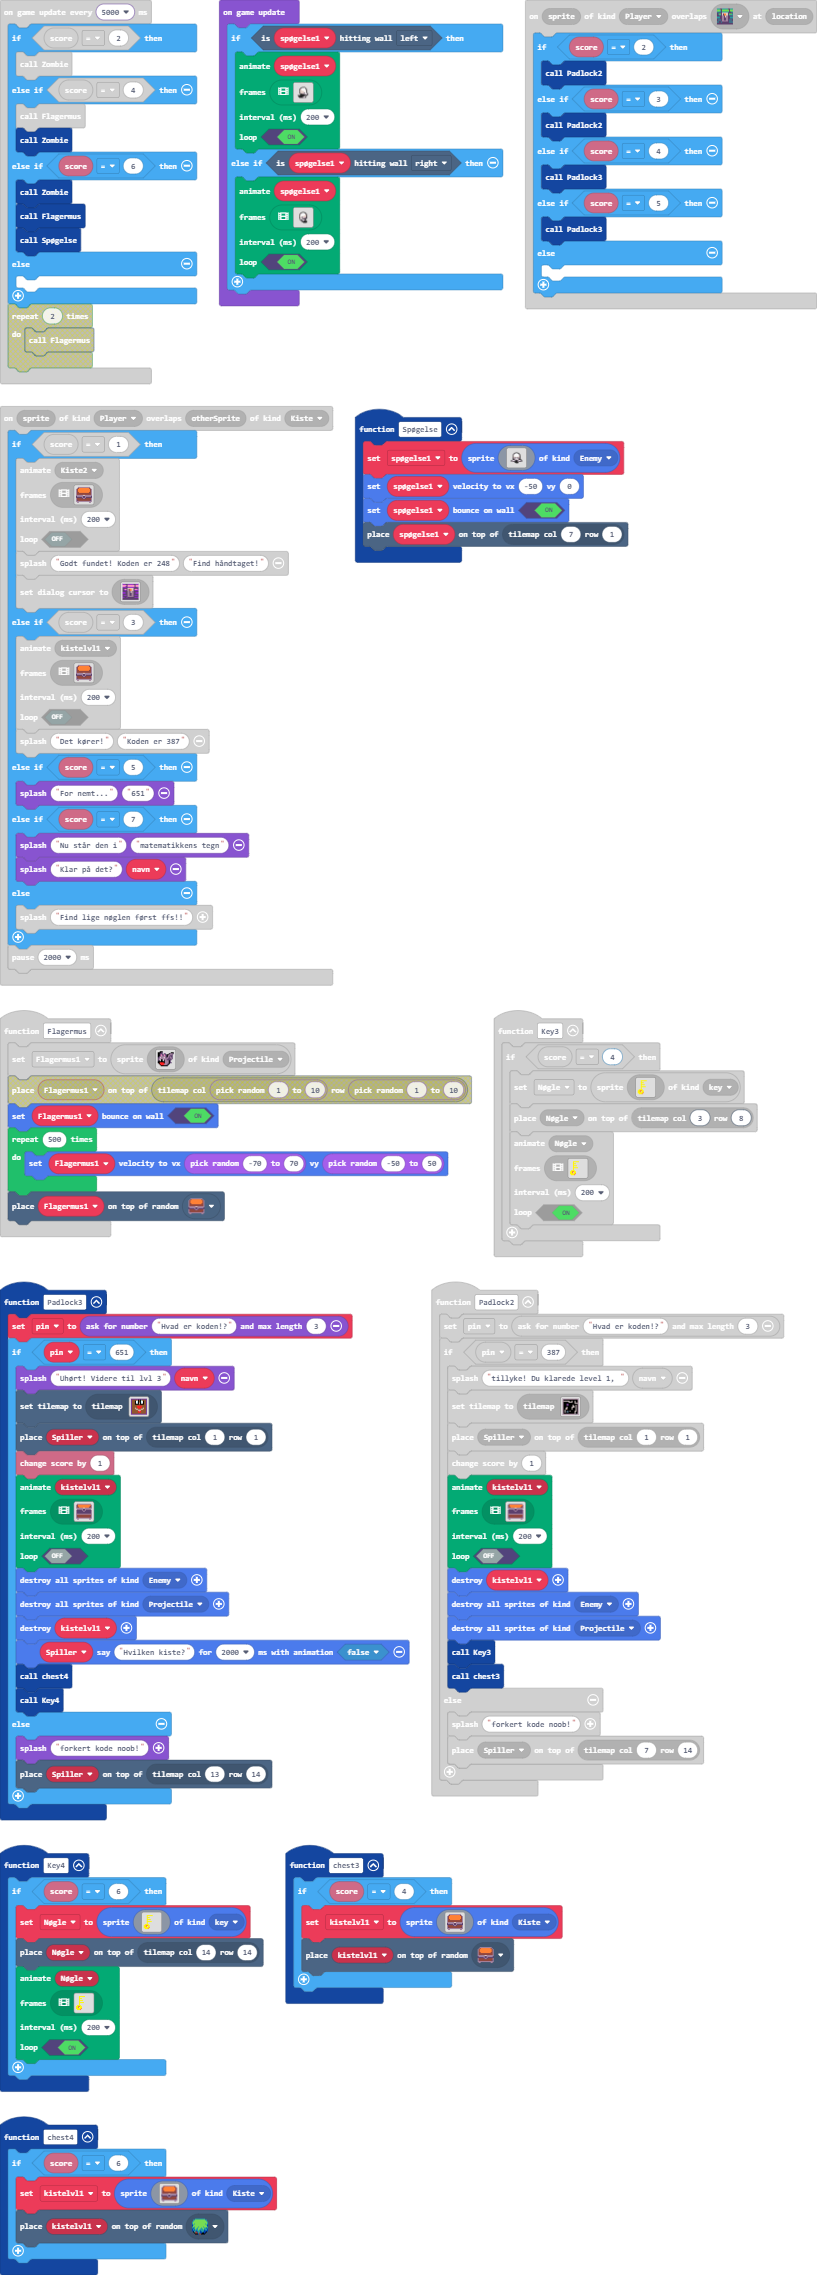
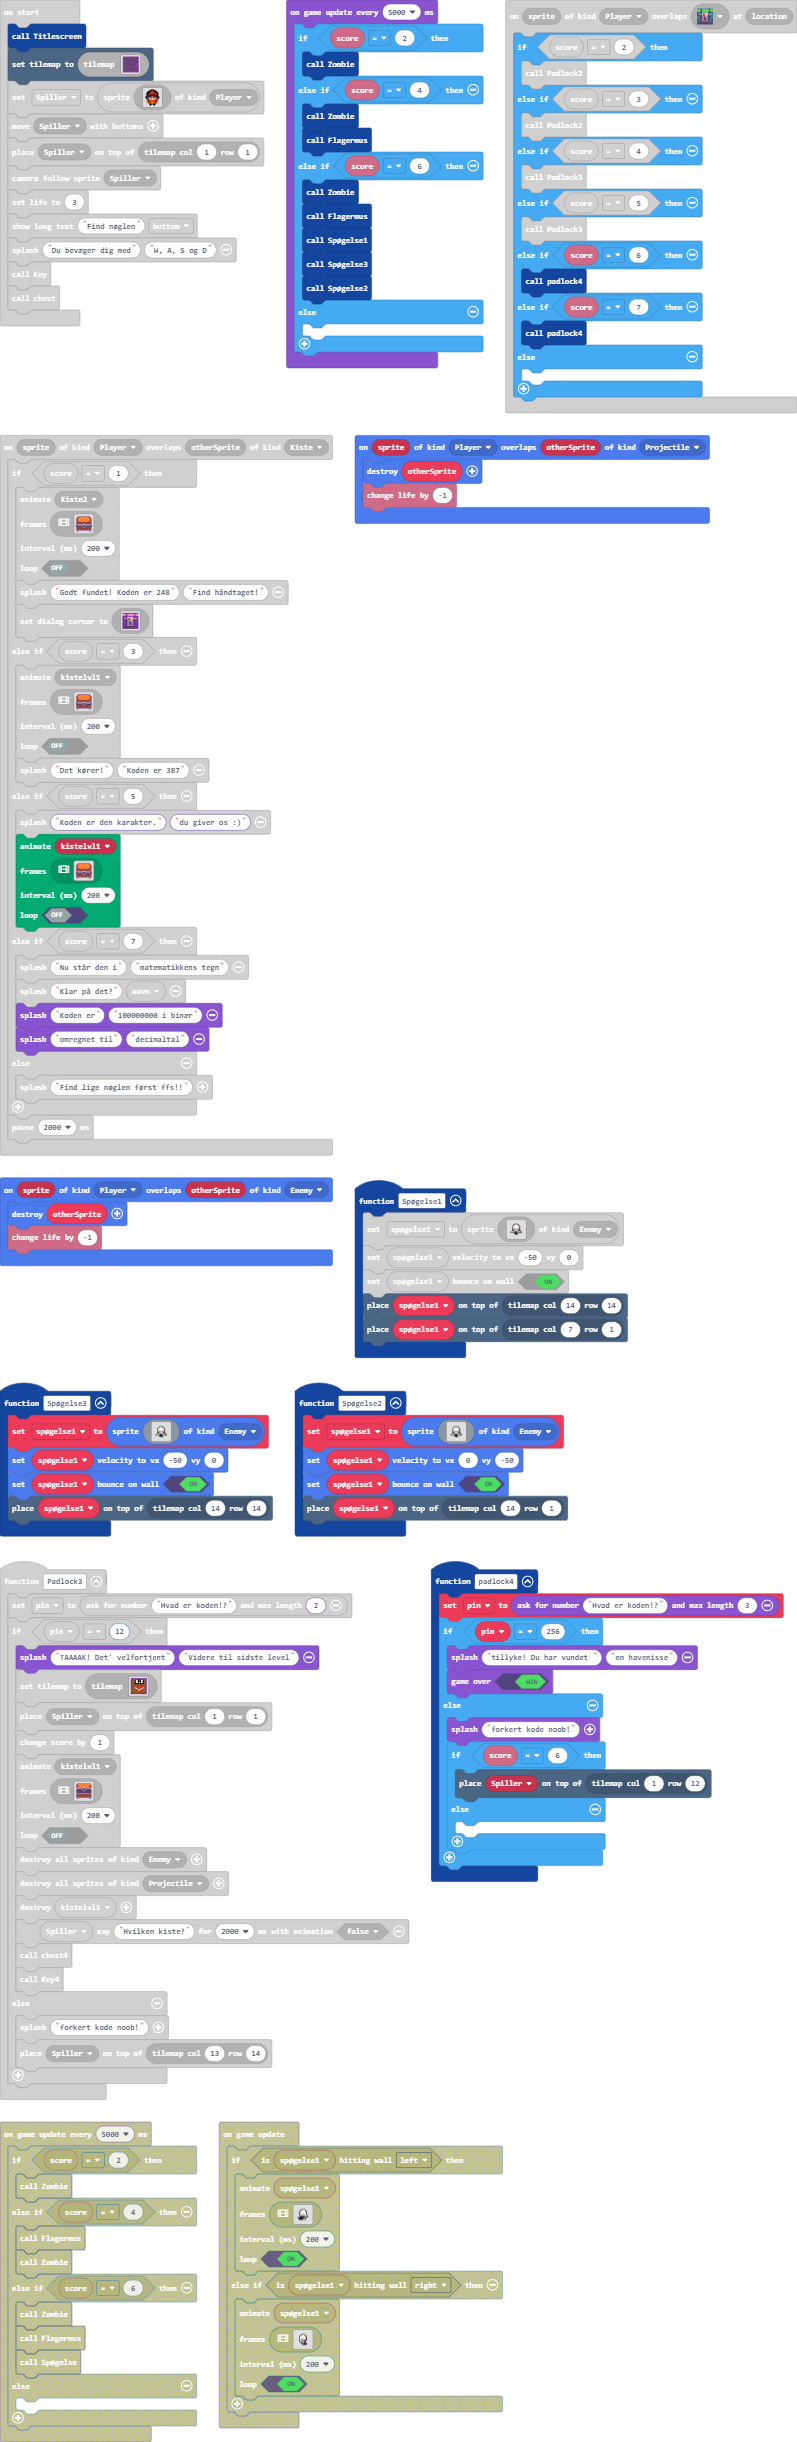
Update main.blocks, main.ts, tilemap.g.jres, tilemap.g.ts

diff --git a/tilemap.g.ts b/tilemap.g.ts
@@ -242,25 +242,6 @@ namespace myTiles {
 . . . . . . . . . . . . . . . . 
 . . . . . . . . . . . . . . . . 
 `, [myTiles.transparency16], TileScale.Sixteen);
-            case "level 1":
[1 lines of base64/hex data omitted]
-2 2 2 2 2 2 2 2 2 2 2 2 2 2 2 2 
-2 . . . . . . . . . . 2 . . . 2 
-2 . 2 2 2 2 2 2 2 2 2 2 . . . 2 
-2 . . . . . . . 2 . . . . . . 2 
-2 . . . . 2 2 2 2 2 2 2 2 2 . 2 
-2 . 2 . . . . . . . . . . 2 . 2 
-2 . 2 . . 2 . . . . . . . 2 . 2 
-2 . 2 2 2 . . . . 2 2 . . 2 . 2 
-2 . . 2 . . . . 2 . . . . . . 2 
-2 . . 2 . . . 2 . . . . 2 2 2 2 
-2 . . 2 2 2 . 2 . . . . . . . 2 
-2 . . 2 . 2 . 2 2 2 2 2 2 . . 2 
-2 . . 2 . 2 . . . . . . 2 . . 2 
-2 . . . . 2 . . . . . . 2 . . 2 
-2 . . . . . . . . . . . 2 . . 2 
-2 2 2 2 2 2 2 . 2 2 2 2 2 2 2 2 
-`, [myTiles.transparency16,sprites.dungeon.floorDark3,sprites.dungeon.floorDark5,sprites.dungeon.greenOuterNorthWest,sprites.dungeon.greenOuterNorth0,sprites.dungeon.greenOuterNorthEast,sprites.dungeon.greenOuterWest1,sprites.dungeon.greenOuterEast2,sprites.dungeon.greenOuterNorth2,sprites.dungeon.greenOuterWest2,sprites.dungeon.greenOuterSouthEast,sprites.dungeon.greenOuterSouth0,sprites.dungeon.greenOuterSouthWest,sprites.dungeon.greenOuterEast1,sprites.dungeon.floorDarkDiamond,sprites.dungeon.floorDark0,sprites.dungeon.chestClosed,sprites.dungeon.greenSwitchUp], TileScale.Sixteen);
             case "level15":
             case "level15":return tiles.createTilemap(hex`1000100000000000000000000000000000000000000000000000000000000000000000000000000000000000000000000000000000000000000000000000000000000000000000000000000000000000000000000000000000000000000000000000000000000000000000000000000000000000000000000000000000000000000000000000000000000000000000000000000000000000000000000000000000000000000000000000000000000000000000000000000000000000000000000000000000000000000000000000000000000000000000000000000000000000000000000000000000000000000000000000000000000000000000000000000000000000`, img`
 . . . . . . . . . . . . . . . . 
@@ -337,8 +318,46 @@ namespace myTiles {
 . . . . . . . . . . . . . . . . 
 . . . . . . . . . . . . . . . . 
 `, [myTiles.transparency16], TileScale.Sixteen);
+            case "level 1":
[1 lines of base64/hex data omitted]
+2 2 2 2 2 2 2 2 2 2 2 2 2 2 2 2 
+2 . . . . . . . . . . 2 . . . 2 
+2 . 2 2 2 2 2 2 2 2 2 2 . . . 2 
+2 . . . . . . . 2 . . . . . . 2 
+2 . . . . 2 2 2 2 2 2 2 2 2 . 2 
+2 . 2 . . . . . . . . . . 2 . 2 
+2 . 2 . . 2 . . . . . . . 2 . 2 
+2 . 2 2 2 . . . . 2 2 . . 2 . 2 
+2 . . 2 . . . . 2 . . . . . . 2 
+2 . . 2 . . . 2 . . . . 2 2 2 2 
+2 . . 2 2 2 . 2 . . . . . . . 2 
+2 . . 2 . 2 . 2 2 2 2 2 2 . . 2 
+2 . . 2 . 2 . . . . . . 2 . . 2 
+2 . . . . 2 . . . . . . 2 . . 2 
+2 . . . . . . . . . . . 2 . . 2 
+2 2 2 2 2 2 2 . 2 2 2 2 2 2 2 2 
+`, [myTiles.transparency16,sprites.dungeon.floorDark3,sprites.dungeon.floorDark5,sprites.dungeon.greenOuterNorthWest,sprites.dungeon.greenOuterNorth0,sprites.dungeon.greenOuterNorthEast,sprites.dungeon.greenOuterWest1,sprites.dungeon.greenOuterEast2,sprites.dungeon.greenOuterNorth2,sprites.dungeon.greenOuterWest2,sprites.dungeon.greenOuterSouthEast,sprites.dungeon.greenOuterSouth0,sprites.dungeon.greenOuterSouthWest,sprites.dungeon.greenOuterEast1,sprites.dungeon.floorDarkDiamond,sprites.dungeon.floorDark0,sprites.dungeon.chestClosed,sprites.dungeon.greenSwitchUp], TileScale.Sixteen);
+            case "level18":
+            case "level18":return tiles.createTilemap(hex`1000100000000000000000000000000000000000000000000000000000000000000000000000000000000000000000000000000000000000000000000000000000000000000000000000000000000000000000000000000000000000000000000000000000000000000000000000000000000000000000000000000000000000000000000000000000000000000000000000000000000000000000000000000000000000000000000000000000000000000000000000000000000000000000000000000000000000000000000000000000000000000000000000000000000000000000000000000000000000000000000000000000000000000000000000000000000000`, img`
+. . . . . . . . . . . . . . . . 
+. . . . . . . . . . . . . . . . 
+. . . . . . . . . . . . . . . . 
+. . . . . . . . . . . . . . . . 
+. . . . . . . . . . . . . . . . 
+. . . . . . . . . . . . . . . . 
+. . . . . . . . . . . . . . . . 
+. . . . . . . . . . . . . . . . 
+. . . . . . . . . . . . . . . . 
+. . . . . . . . . . . . . . . . 
+. . . . . . . . . . . . . . . . 
+. . . . . . . . . . . . . . . . 
+. . . . . . . . . . . . . . . . 
+. . . . . . . . . . . . . . . . 
+. . . . . . . . . . . . . . . . 
+. . . . . . . . . . . . . . . . 
+`, [myTiles.transparency16], TileScale.Sixteen);
             case "level3":
[2 lines of base64/hex data omitted]
 2 2 2 2 2 2 2 2 2 2 2 2 2 2 2 2 
 2 . . . . . . 2 . 2 . . . . . 2 
 2 . . . 2 . . 2 . 2 . . 2 . . 2 
@@ -351,11 +370,11 @@ namespace myTiles {
 2 . . . 2 . . 2 2 2 . . 2 . . 2 
 2 . . . . 2 2 . . . 2 2 . . . 2 
 2 . . . . . . 2 2 2 . . . . . 2 
-2 . . . . . . . . . . . . . . 2 
+. . . . . . . . . . . . . . . 2 
 2 . . . . . . . . . . . . . . 2 
 2 . . . . . . . . . . . . . . 2 
 2 2 2 2 2 2 2 2 2 2 2 2 2 2 2 2 
-`, [myTiles.transparency16,myTiles.tile1,myTiles.tile2,myTiles.tile3,myTiles.tile4,myTiles.tile7,myTiles.tile8,myTiles.tile9,myTiles.tile10,myTiles.tile11,myTiles.tile12,myTiles.tile13,sprites.dungeon.chestClosed,sprites.builtin.forestTiles0], TileScale.Sixteen);
+`, [myTiles.transparency16,myTiles.tile1,myTiles.tile2,myTiles.tile3,myTiles.tile4,myTiles.tile7,myTiles.tile8,myTiles.tile9,myTiles.tile10,myTiles.tile11,myTiles.tile12,myTiles.tile13,sprites.dungeon.chestClosed,sprites.builtin.forestTiles0,sprites.dungeon.greenSwitchUp], TileScale.Sixteen);
         }
         return null;
     })

diff --git a/main.ts b/main.ts
@@ -3,9 +3,9 @@ namespace SpriteKind {
     export const key = SpriteKind.create()
 }
 function Padlock3 () {
-    pin = game.askForNumber("Hvad er koden!?", 3)
-    if (pin == 651) {
-        game.splash("Uhørt! Videre til lvl 3", navn)
+    pin = game.askForNumber("Hvad er koden!?", 2)
+    if (pin == 12) {
+        game.splash("TAAAAK! Det' velfortjent", "Videre til sidste level")
         tiles.setCurrentTilemap(tilemap`level3`)
         tiles.placeOnTile(Spiller, tiles.getTileLocation(1, 1))
         info.changeScoreBy(1)
@@ -59,6 +59,10 @@ scene.onOverlapTile(SpriteKind.Player, sprites.dungeon.greenSwitchUp, function (
         Padlock3()
     } else if (info.score() == 5) {
         Padlock3()
+    } else if (info.score() == 6) {
+        padlock4()
+    } else if (info.score() == 7) {
+        padlock4()
     } else {
     	
     }
@@ -93,6 +97,13 @@ function Key4 () {
         )
     }
 }
+function Spøgelse1 () {
+    spøgelse1 = sprites.create(assets.image`spøgelse`, SpriteKind.Enemy)
+    spøgelse1.setVelocity(-50, 0)
+    spøgelse1.setBounceOnWall(true)
+    tiles.placeOnTile(spøgelse1, tiles.getTileLocation(14, 14))
+    tiles.placeOnTile(spøgelse1, tiles.getTileLocation(7, 1))
+}
 function Zombie () {
     zombie = sprites.create(assets.image`zombie2`, SpriteKind.Enemy)
     zombie.follow(Spiller, 20)
@@ -122,11 +133,21 @@ controller.right.onEvent(ControllerButtonEvent.Pressed, function () {
     true
     )
 })
+sprites.onOverlap(SpriteKind.Player, SpriteKind.Projectile, function (sprite, otherSprite) {
+    sprites.destroy(otherSprite)
+    info.changeLifeBy(-1)
+})
 function chest4 () {
     if (info.score() == 6) {
         kistelvl1 = sprites.create(assets.image`LukketKiste`, SpriteKind.Kiste)
         tiles.placeOnRandomTile(kistelvl1, sprites.builtin.forestTiles0)
     }
+}
+function Spøgelse2 () {
+    spøgelse1 = sprites.create(assets.image`spøgelse`, SpriteKind.Enemy)
+    spøgelse1.setVelocity(0, -50)
+    spøgelse1.setBounceOnWall(true)
+    tiles.placeOnTile(spøgelse1, tiles.getTileLocation(14, 1))
 }
 sprites.onOverlap(SpriteKind.Player, SpriteKind.Kiste, function (sprite, otherSprite) {
     if (info.score() == 1) {
@@ -147,10 +168,18 @@ sprites.onOverlap(SpriteKind.Player, SpriteKind.Kiste, function (sprite, otherSp
         )
         game.splash("Det kører!", "Koden er 387")
     } else if (info.score() == 5) {
-        game.splash("For nemt...", "651")
+        game.splash("Koden er den karakter.", "du giver os :)")
+        animation.runImageAnimation(
+        kistelvl1,
+        assets.animation`kisteanimation`,
+        200,
+        false
+        )
     } else if (info.score() == 7) {
         game.splash("Nu står den i", "matematikkens tegn")
         game.splash("Klar på det?", navn)
+        game.splash("Koden er", "100000000 i binær")
+        game.splash("omregnet til", "decimaltal")
     } else {
         game.splash("Find lige nøglen først ffs!!")
     }
@@ -170,14 +199,28 @@ controller.down.onEvent(ControllerButtonEvent.Pressed, function () {
     true
     )
 })
-scene.onOverlapTile(SpriteKind.Player, sprites.dungeon.purpleSwitchUp, function (sprite, location) {
-    padlock1()
-})
-function Spøgelse () {
+function Spøgelse3 () {
     spøgelse1 = sprites.create(assets.image`spøgelse`, SpriteKind.Enemy)
     spøgelse1.setVelocity(-50, 0)
     spøgelse1.setBounceOnWall(true)
-    tiles.placeOnTile(spøgelse1, tiles.getTileLocation(7, 1))
+    tiles.placeOnTile(spøgelse1, tiles.getTileLocation(14, 14))
+}
+scene.onOverlapTile(SpriteKind.Player, sprites.dungeon.purpleSwitchUp, function (sprite, location) {
+    padlock1()
+})
+function padlock4 () {
+    pin = game.askForNumber("Hvad er koden!?", 3)
+    if (pin == 256) {
+        game.splash("tillyke! Du har vundet ", "en havenisse")
+        game.gameOver(true)
+    } else {
+        game.splash("forkert kode noob!")
+        if (info.score() == 6) {
+            tiles.placeOnTile(Spiller, tiles.getTileLocation(1, 12))
+        } else {
+        	
+        }
+    }
 }
 function Padlock2 () {
     pin = game.askForNumber("Hvad er koden!?", 3)
@@ -246,15 +289,20 @@ function Flagermus () {
         Flagermus1.setVelocity(randint(-70, 70), randint(-50, 50))
     }
 }
+sprites.onOverlap(SpriteKind.Player, SpriteKind.Enemy, function (sprite, otherSprite) {
+    sprites.destroy(otherSprite)
+    info.changeLifeBy(-1)
+})
 let Flagermus1: Sprite = null
-let spøgelse1: Sprite = null
 let Kiste2: Sprite = null
 let zombie: Sprite = null
+let spøgelse1: Sprite = null
 let Nøgle: Sprite = null
-let kistelvl1: Sprite = null
 let navn = ""
+let kistelvl1: Sprite = null
 let pin = 0
 let Spiller: Sprite = null
+Titlescreen()
 tiles.setCurrentTilemap(tilemap`level0`)
 Spiller = sprites.create(img`
     . . . . . . f f f f . . . . . . 
@@ -282,33 +330,18 @@ game.showLongText("Find nøglen", DialogLayout.Bottom)
 game.splash("Du bevæger dig med", "W, A, S og D")
 Key()
 chest()
-game.onUpdate(function () {
-    if (spøgelse1.isHittingTile(CollisionDirection.Left)) {
-        animation.runImageAnimation(
-        spøgelse1,
-        assets.animation`spøgelseanimationhøjre`,
-        200,
-        true
-        )
-    } else if (spøgelse1.isHittingTile(CollisionDirection.Right)) {
-        animation.runImageAnimation(
-        spøgelse1,
-        assets.animation`spøgelseanimation1`,
-        200,
-        true
-        )
-    }
-})
 game.onUpdateInterval(5000, function () {
     if (info.score() == 2) {
         Zombie()
     } else if (info.score() == 4) {
-        Flagermus()
         Zombie()
+        Flagermus()
     } else if (info.score() == 6) {
         Zombie()
         Flagermus()
-        Spøgelse()
+        Spøgelse1()
+        Spøgelse3()
+        Spøgelse2()
     } else {
     	
     }
